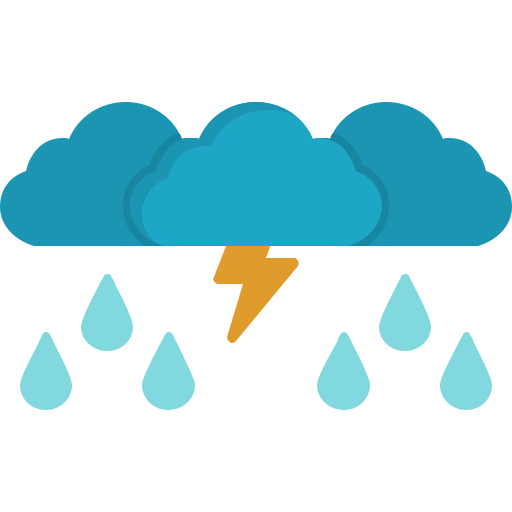
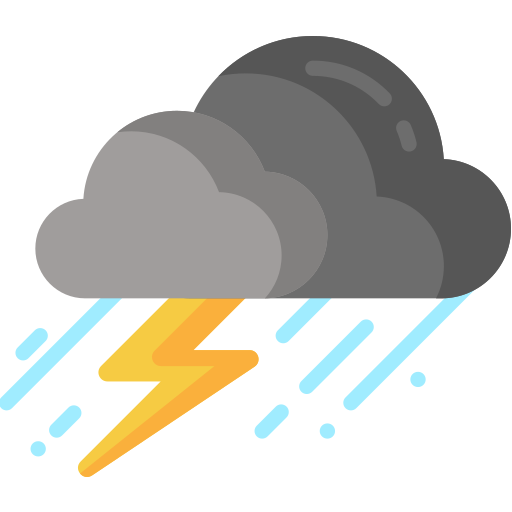
completed dynamic bg

diff --git a/lib/presentation/weather_screen.dart b/lib/presentation/weather_screen.dart
@@ -69,22 +69,33 @@ class _WeatherScreenState extends State<WeatherScreen> {
   }
 
   List<Color> findPalette() {
-    String? condition = "clouds"; // findCondition()
+    String? condition = findCondition();
     List<Color> palette = [];
     switch (condition) {
       case "sun":
         palette = [Colors.blue.shade300, Colors.purple.shade100, Colors.amber.shade300, Colors.black87, Colors.black87];
         break;
       case "moon":
-        palette = [Colors.blueGrey.shade900, Colors.blueGrey.shade800, Colors.black87, Colors.white70, Colors.white];
+        palette = [Colors.black26, Colors.blueGrey.shade900, Colors.black87, Colors.white70, Colors.white];
         break;
       case "clouds":
-        palette = [Colors.amber.shade800, Colors.deepPurple.shade700, Colors.black54, Colors.black87, Colors.white];
+        palette = [Colors.blue.shade700, Colors.lightBlue.shade300, Colors.cyan.shade900, Colors.black87, Colors.black87];
         break;
       case "drizzle":
-        palette = [];
+        palette = [Colors.blueGrey.shade700, Colors.blueGrey.shade500, Colors.black26, Colors.white70, Colors.white];
         break;
-
+      case "rain":
+        palette = [Colors.blueGrey.shade900, Colors.blueGrey.shade700, Colors.black54, Colors.white70, Colors.white];
+        break;
+      case "thunderstorm":
+        palette = [Colors.black54, Colors.blueGrey.shade900, Colors.black87, Colors.white, Colors.white60];
+        break;
+      case "mist":
+        palette = [Colors.grey.shade600, Colors.grey.shade300, Colors.grey.shade800, Colors.black87, Colors.black87];
+        break;
+      case "snow":
+        palette = [Color(0xFF88C0D0), Color(0xFF5E81AC), Color(0xFF4C566A), Colors.black87, Colors.black87];
+        break;
     }
 
     return palette;
@@ -143,7 +154,7 @@ class _WeatherScreenState extends State<WeatherScreen> {
                   height: 40,
                 ),
                 Image(
-                  image: AssetImage("assets/images/clouds.png"), // ${findCondition()}
+                  image: AssetImage("assets/images/${findCondition()}.png"), //
                   width: 270,
                   height: 270,
                 ),
@@ -182,9 +193,9 @@ class _WeatherScreenState extends State<WeatherScreen> {
                         Text(
                           "${_weather?.maximumTemperature.toStringAsFixed(0)}°C" ?? "",
                           style: GoogleFonts.quicksand(
-                            fontSize: 25,
-                            fontWeight: FontWeight.w500,
-                            color: findPalette().elementAt(4)
+                              fontSize: 25,
+                              fontWeight: FontWeight.w500,
+                              color: findPalette().elementAt(4)
                           ),
                         )
                       ],
@@ -232,7 +243,6 @@ class _WeatherScreenState extends State<WeatherScreen> {
                     )
                   ],
                 )
-
               ],
             ),
           )
